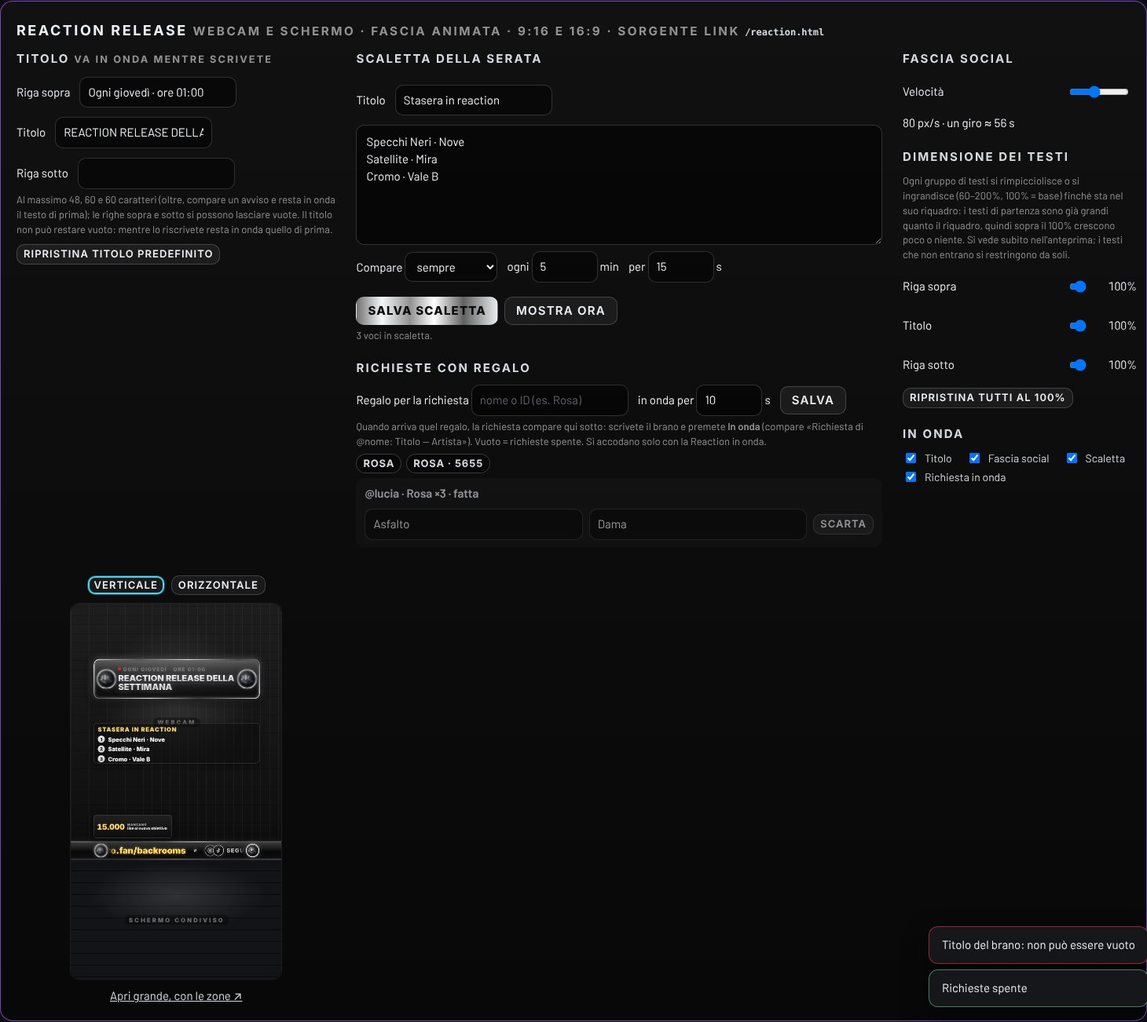
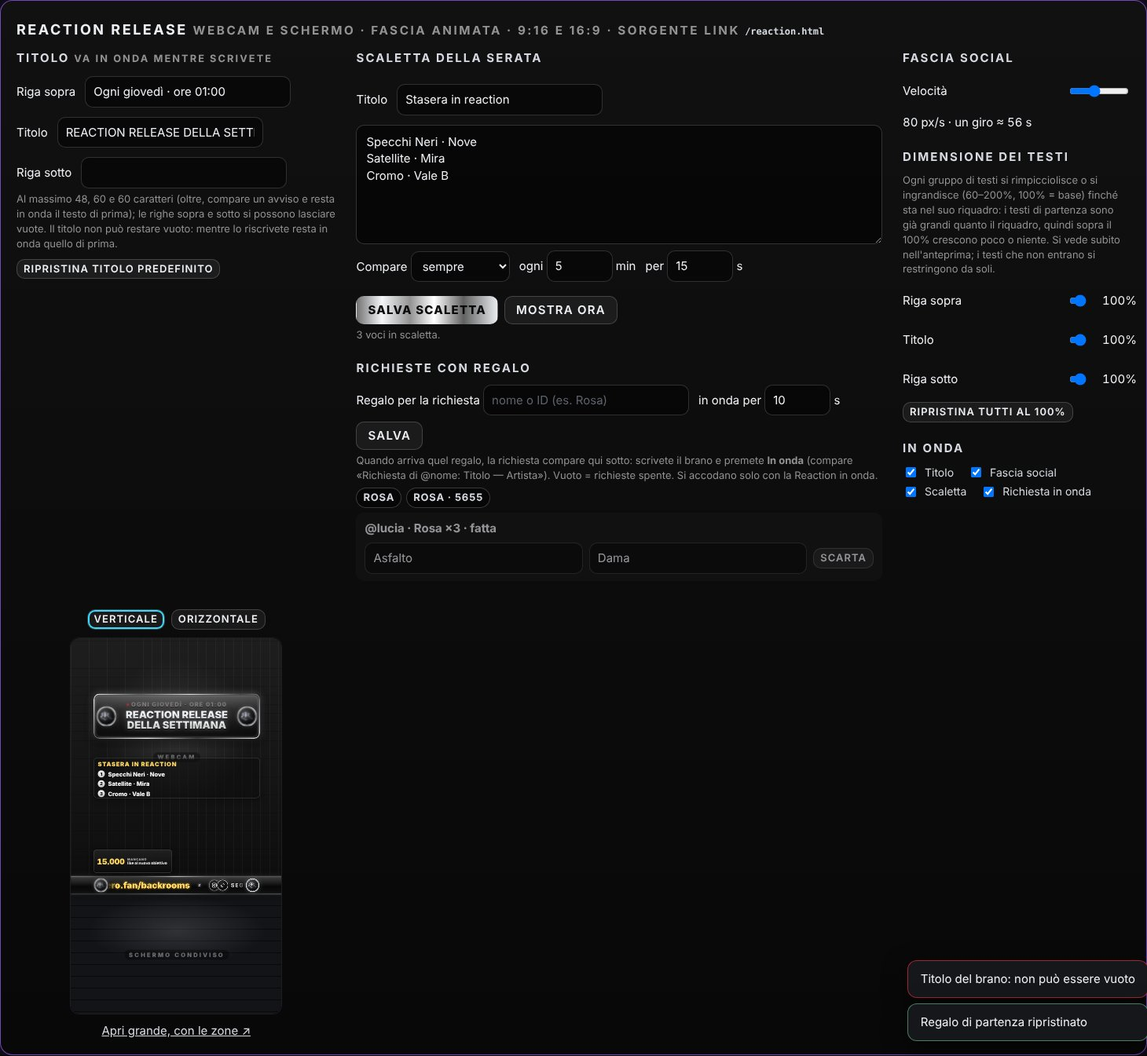
Documentazione, mockup e controllo di insieme dei nuovi layout [skip netlify]
Claude-Session: https://claude.ai/code/session_01KknJSv8vijv85bNpvfWr5a

diff --git a/overlay-live/GUIDA.html b/overlay-live/GUIDA.html
@@ -5,7 +5,6 @@
 <title>Guida overlay Backrooms</title>
 <link rel="preconnect" href="https://fonts.googleapis.com">
 <link rel="preconnect" href="https://fonts.gstatic.com" crossorigin>
-<link rel="stylesheet" href="https://fonts.googleapis.com/css2?family=Barlow+Condensed:wght@600;700;800&family=Barlow:ital,wght@0,400;0,500;0,600;1,400&family=Grenze+Gotisch:wght@800&display=swap">
 <style>
 /* Manuale da regia: indice fisso a sinistra su schermo largo, colonna di lettura a destra.
    Il giallo dei cerchietti numerati è lo stesso dello screenshot della regia, così testo e immagine si richiamano. */
@@ -20,9 +19,9 @@
   --ok: #46d98a;
   --allarme: #ff6b7d;
   --cromo: linear-gradient(180deg, #ffffff 0%, #c9ced8 38%, #6d7380 52%, #e9ecf2 70%, #9aa0ab 100%);
-  --f-gotico: "Grenze Gotisch", "Old English Text MT", Georgia, serif;
-  --f-titoli: "Barlow Condensed", "Arial Narrow", "Segoe UI", sans-serif;
-  --f-testo: "Barlow", "Segoe UI", system-ui, sans-serif;
+  --f-gotico: system-ui, -apple-system, "SF Pro Display", "Segoe UI", sans-serif;
+  --f-titoli: system-ui, -apple-system, "SF Pro Display", "Segoe UI", sans-serif;
+  --f-testo: system-ui, -apple-system, "SF Pro Text", "Segoe UI", sans-serif;
   --f-codice: "Cascadia Mono", Consolas, "SFMono-Regular", Menlo, monospace;
   color-scheme: dark;
 }
@@ -725,7 +724,7 @@ Webhook Nero.fan in ascolto su http://127.0.0.1:4748/webhook/nero</pre>
       <h3>Prima di ogni live</h3>
       <ol class="passi">
         <li><p>Nella regia, in alto, in <strong>In onda</strong> scegliete <strong>Drum Challenge Live</strong>: compare la sezione del Drum.</p></li>
-        <li><p><strong>Scaletta</strong>: una riga per tappa, «Like | Titolo del brano» (i Like si scrivono anche <em>15.000</em> o <em>15k</em>). Di partenza ci sono 37 tappe, da 1.000 a 500.000 Like, senza titoli: finché una tappa è chiusa la colonna scrive «Brano segreto», sbloccata senza titolo diventa «Brano a sorpresa». Premete <strong>Salva scaletta</strong>; se qualcosa non va, il messaggio dice il numero della riga e non cambia niente.</p></li>
+        <li><p><strong>Scaletta</strong>: una riga per tappa, «Like | Titolo del brano» (i Like si scrivono anche <em>15.000</em> o <em>15k</em>). Di partenza ci sono 37 tappe, da 1.000 a 500.000 Like, senza titoli: finché una tappa è chiusa il titolo resta nascosto, sbloccata senza titolo diventa «Brano a sorpresa». Premete <strong>Salva scaletta</strong>; se qualcosa non va, il messaggio dice il numero della riga e non cambia niente.</p></li>
         <li><p><strong>Like</strong>: collegate la chat (sezione <em>Serata</em> → <strong>Collega chat</strong>): i Like arrivano da soli e sotto il contatore grande compare «Collegato a TikTok». Se avviate la regia a live già iniziata, scrivete il numero giusto in <strong>Imposta i Like</strong> (anche prima che arrivi il primo Like da TikTok: il numero scritto resta, i Like nuovi si sommano); <strong>Riparti da ora</strong> li azzera e riporta la scaletta alla prima tappa.</p></li>
         <li><p><strong>Dona un…</strong>, <strong>Artista ospite</strong> (compare nella barra dei social) e <strong>Riempimento dei moduli</strong> (perline o sabbia) si cambiano a piacere. In <strong>Dimensione dei testi</strong> ogni gruppo di testi si rimpicciolisce (o si ingrandisce, dove il riquadro ha ancora spazio: i testi di partenza sono già grandi quanto il loro riquadro).</p></li>
         <li><p><strong>Equalizzatore</strong>: leggete il paragrafo qui sotto prima della prima diretta.</p></li>

diff --git a/overlay-live/public/regia.html b/overlay-live/public/regia.html
@@ -7,7 +7,6 @@
   <title>Regia live · Backrooms</title>
   <link rel="preconnect" href="https://fonts.googleapis.com">
   <link rel="preconnect" href="https://fonts.gstatic.com" crossorigin>
-  <link rel="stylesheet" href="https://fonts.googleapis.com/css2?family=Barlow+Condensed:wght@500;600;700;800&family=Barlow:wght@400;500;600&family=Grenze+Gotisch:wght@700;800&display=swap">
   <link rel="stylesheet" href="/css/base.css">
   <link rel="stylesheet" href="/css/regia.css">
 </head>

diff --git a/overlay-live/README.md b/overlay-live/README.md
@@ -8,7 +8,7 @@ C'è anche il layout **Live session in studio** (`/studio.html`): split screen d
 
 Per gli scontri tra due rapper c'è il layout **Battle** (`/battle.html`): barre della vita in stile Tekken che seguono il voto della chat, camera al centro divisa da un fulmine con il VS, modalità e timer con il gong, tre giudici (Luca, Freya, Daniele), tabellone a torneo o a punti e pop-up social (vedi [Battle](#battle)).
 
-Per le dirette con la camera a tutto schermo ci sono altri quattro layout, con la stessa grafica (vetro viola, cromo, monete BR, neon): **Drum Challenge Live** (`/drum.html`: i Like della live sbloccano una scaletta di brani, con equalizzatore dall'audio di FL Studio), **Studio Production** (`/produzione.html`: webcam e DAW con una targa per il titolo), **Back Rooms Podcast** (`/podcast.html`: targa, linea di divisione e pannello Tematiche, anche in 16:9) e **Reaction Release** (`/reaction.html`: webcam e schermo condiviso, anche in 16:9). Vedi [I quattro layout nuovi](#i-quattro-layout-nuovi).
+Per le dirette con la camera a tutto schermo ci sono altri quattro layout, con la stessa grafica (vetro grigio, cromo, monete BR, accenti oro, rosso e verde smeraldo): **Drum Challenge Live** (`/drum.html`: i Like della live sbloccano una scaletta di brani, con equalizzatore dall'audio di FL Studio), **Studio Production** (`/produzione.html`: webcam e DAW con una targa per il titolo), **Back Rooms Podcast** (`/podcast.html`: targa, linea di divisione e pannello Tematiche, anche in 16:9) e **Reaction Release** (`/reaction.html`: webcam e schermo condiviso, anche in 16:9). Vedi [I quattro layout nuovi](#i-quattro-layout-nuovi).
 
 ```
 Nero.fan ─webhook─▶ ┐                                        ┌──▶ /overlay.html       (gara con premio, sorgente Link)
@@ -152,9 +152,19 @@ Giudici e barra della chat stanno nella zona dei commenti di TikTok (1200–1700
 
 Per rifare i mockup e controllare che ogni pezzo stia dove dice la tabella (serve Playwright installato a parte, non fa parte di `npm test`): `node strumenti/mockup-battle.mjs --base http://127.0.0.1:4747 --fase battle` (fasi: `attesa`, `countdown`, `battle`, `voto`, `risultato`, `pari`, `torneo`, `punti`; opzioni `--guida`, `--secondi N`, `--conto N`, `--popup`, e `--fase risultato --vittoria` per la schermata del vincitore, con il controllo che stia nella zona libera), per provare la regia `--regia`, e `--controlli` per verificare che i nomi lunghi entrino nei riquadri e che «VIA!» resti visibile. **Usatelo su una porta di prova, non durante la diretta**: i dati di prova azzerano torneo e punti. I dati di prova li mette il comando `battleDemo`.
 
+## Aspetto, Goal e richieste
+
+- **Font e palette**: gli overlay usano il **font di sistema** (San Francisco su Mac e iPhone; su Windows il font di sistema, Segoe UI): nessun font scaricato da Internet. I colori sono **grigi** con tre accenti: **oro** (premi, tracce che pagano), **rosso** (urgenza, ultimi minuti) e **verde smeraldo** (conferme). Un controllo automatico (`test/aspetto.test.mjs`) impedisce font con nome proprio e colori fuori palette.
+- **Voto della chat e votazione**: i voti vanno da 4 a 10 (si cambia con il comando `votazione`, insieme ai pesi e alle diciture di Beat, Voce, Mix e Chat). Il blocco dei voti sta sopra i commenti. Nel Battle la modalità «Voto Chat» fa decidere il round al pubblico.
+- **Tabellone ad albero** (comando `albero`, widget `albero`): i confronti della gara come albero, in onda per i secondi scelti.
+- **Goal Like e Follower** (comando `goal`, widget `goal`): un obiettivo a tacche (i *Like* arrivano da TikTok, i *Follower* da un follow o si impostano a mano) mostrato in gara, senza premio, studio, Drum, Studio Production, Reaction, Podcast e Battle (non nel formato orizzontale della gara). Modo *fisso* o *a comparsa* (ogni N minuti per N secondi, o con `goalMostra`); la posizione si regola per layout.
+- **Richieste con regalo e *Regali visti***: in Reaction e Drum un regalo scelto in regia (nome o ID) aggiunge una richiesta di un donatore in coda (al massimo 30). Nella Reaction la regia scrive il brano e lo mette in onda; nel Drum la richiesta «salta la coda». La regia elenca i *Regali visti* nella live, così si copia il nome giusto. Le richieste arrivano solo al layout in onda e si svuotano con *Nuova serata*.
+- **Senza premio**: la scheda «Ora in ascolto» resta fissa, mostra «Traccia N di TOT» con le tracce in attesa su Nero (`codaNero`, oppure il totale vero di Nero) e l'Instagram dell'artista; chi paga lo skip fa comparire il banner oro. **Live session in studio**: la linguetta e la barra dicono «In studio ora» (la dicitura si cambia).
+- **Limiti noti**: il nome del campo Instagram nella traccia di Nero e il significato di `queueCount` non sono verificati con una traccia vera; regali e follower non sono stati provati con una live vera (solo `regaloEvento` e `followEvento`); il carico sul PC non è stato misurato.
+
 ## I quattro layout nuovi
 
-**Drum Challenge Live**, **Studio Production**, **Back Rooms Podcast** e **Reaction Release** hanno la stessa grafica (vetro viola, cromo, monete BR, neon ciano, magenta e oro; Barlow Condensed e Grenze Gotisch) e funzionano allo stesso modo: la camera (o le camere) sta **sotto**, in LIVE Studio o OBS, e sopra va **una sola** sorgente **Link** su sfondo trasparente. Nella regia, in alto, in *In onda* si sceglie il layout; ognuno ha la sua sezione, con un'anteprima che si aggiorna dal vivo e il link «Apri grande, con le zone».
+**Drum Challenge Live**, **Studio Production**, **Back Rooms Podcast** e **Reaction Release** hanno la stessa grafica (vetro grigio, cromo, monete BR; solo grigi con accenti oro, rosso e verde smeraldo; font di sistema, vedi [Aspetto, Goal e richieste](#aspetto-goal-e-richieste)) e funzionano allo stesso modo: la camera (o le camere) sta **sotto**, in LIVE Studio o OBS, e sopra va **una sola** sorgente **Link** su sfondo trasparente. Nella regia, in alto, in *In onda* si sceglie il layout; ognuno ha la sua sezione, con un'anteprima che si aggiorna dal vivo e il link «Apri grande, con le zone».
 
 | Layout | Indirizzo | Formato | Suoni |
 |---|---|---|---|
@@ -178,7 +188,7 @@ Il server li stampa all'avvio, insieme agli altri. Quello che hanno in comune:
 
 Per la sfida alla batteria: i **Like** della live sbloccano, uno dopo l'altro, i brani di una scaletta, e mentre si suona la cornice e l'equalizzatore seguono l'audio di FL Studio. La camera del batterista va **sotto**, a tutto schermo; sopra va una sorgente **Link** `http://127.0.0.1:4747/drum.html`, 1080×1920, stesa su tutta la tela (sfondo trasparente). Nella regia, in alto: **In onda → Drum Challenge Live**.
 
-- **Colonna dei traguardi** (a destra) e **contatore dei Like** sopra di lei. La colonna mostra quattro moduli: l'ultimo sbloccato, quello che si sta riempiendo e i due dopo. Ogni modulo ha i Like della tappa e il titolo del brano (finché la tappa è chiusa «Brano segreto»; sbloccata senza titolo «Brano a sorpresa»); quello che si sta riempiendo mostra quanti Like mancano e la percentuale, con una clessidra che si riempie di **perline** o di **sabbia** (si sceglie in regia, *Riempimento dei moduli*).
+- **Colonna dei traguardi** (a destra) e **contatore dei Like** sopra di lei. La colonna mostra quattro moduli: l'ultimo sbloccato, quello che si sta riempiendo e i due dopo. Ogni modulo ha i Like della tappa e il titolo del brano (finché la tappa è chiusa il titolo resta nascosto; sbloccata senza titolo «Brano a sorpresa»); quello che si sta riempiendo mostra quanti Like mancano e la percentuale, con una clessidra che si riempie di **perline** o di **sabbia** (si sceglie in regia, *Riempimento dei moduli*).
 - **Scaletta**: di partenza 37 tappe, da 1.000 a 500.000 Like (1k, 2k, 3k, 5k, 7k, 9k, 10k, 12k, 15k, 17k, 20k, 22k, 25k, 27k, 29k, 30k, 32k, 35k, 37k, 40k, 45k, 50k, 60k, 70k, 80k, 90k, 100k, 125k, 150k, 175k, 200k, 250k, 300k, 350k, 400k, 450k, 500k), senza titoli. In regia (*Scaletta*) si scrive una tappa per riga, «Like | Titolo del brano»: i Like si scrivono `15000`, `15.000` o `15k` e devono crescere; massimo 80 tappe, titoli fino a 60 caratteri. Un errore dice il numero della riga e non cambia niente. *Scaletta predefinita* rimette le 37 tappe tenendo i titoli di quelle con gli stessi Like. Cambiare la scaletta non sblocca nessun brano.
 - **Like**: arrivano da soli dagli eventi «like» della chat TikTok (serve la chat collegata: *Serata → Collega chat*; la regia mostra «Collegato a TikTok», «In attesa di TikTok» o «TikTok non collegato»). Il totale della live non scende mai. In regia si correggono a mano: *Imposta*, *+100*, *+1.000* e *Riparti da ora* (contatore a zero e scaletta dalla prima tappa: per una live già iniziata). Una correzione fatta prima che arrivi il primo evento «like» (regia appena avviata o chat appena ricollegata) vale per quel primo evento: il totale della live non si somma al numero impostato e *Riparti da ora* non sblocca le tappe che c'erano già.
 - **Sblocco**: quando i Like raggiungono una tappa parte una sequenza di circa 2,6 secondi: un colpo sul modulo (onda di luce, raffica di perline, lampo), il banner **«Brano sbloccato»** con il titolo in verde neon (per circa 3 secondi), la colonna che scorre di un posto e il suono `sblocco`. Se i Like saltano più tappe in una volta si annuncia solo la più alta; due sblocchi di fila non si accavallano (parte l'ultimo). Ricaricare la pagina non rifà la sequenza.
@@ -220,8 +230,9 @@ Si cambiano in cima a `public/css/drum.css`. Parametri: i comuni (vedi sopra) e 
 Per le live in cui si lavora a un beat o a un mix: la **webcam** in alto e lo **schermo della DAW** (FL Studio) in basso, la fascia social tra le due e, nella parte alta della webcam, una targa con il titolo della live. In LIVE Studio le due camere vanno **sotto**: webcam da y 0 a 1212, schermo della DAW da y 1304 a 1920. Sopra va una sorgente **Link** `http://127.0.0.1:4747/produzione.html`, 1080×1920, stesa su tutta la tela (sfondo trasparente). Nella regia, in alto: **In onda → Studio Production**. Solo verticale, nessun suono.
 
 - **Targa del titolo**: placca cromata in 3D con le monete BR ai lati e il punto REC, su tre righe: una riga sopra, il titolo grande in cromo luccicante e una riga sotto. Il colore d'accento e l'icona dipendono dal **preset**: *Cooking Beats* (oro, cappello da cuoco, «Backrooms Studio · Live» / «Un beat da zero, in diretta»), *Sessione Beat* (magenta, cuffie, «In studio con il producer») e *Mix & Master* (ciano, manopole, «Mix e master in diretta»). Scelto il preset si può cambiare ogni riga.
-- **Titolo in tempo reale**: le tre righe (sopra fino a 32 caratteri, titolo 28, sotto 48) vanno in onda **mentre si scrive**, 150 ms dopo l'ultimo tasto, con un breve effetto flip (non al primo caricamento). Il titolo non può restare vuoto: mentre lo riscrivete resta in onda quello di prima; un testo troppo lungo dà un avviso e il campo torna al testo in onda.
+- **Titolo in tempo reale**: le tre righe (sopra fino a 40 caratteri, titolo 36, sotto 60) vanno in onda **mentre si scrive**, 150 ms dopo l'ultimo tasto, con un breve effetto flip (non al primo caricamento). Il titolo non può restare vuoto: mentre lo riscrivete resta in onda quello di prima; un testo troppo lungo dà un avviso e il campo torna al testo in onda.
 - **Fascia social** (la barra che scorre) tra la webcam e lo schermo.
+- **Titoli salvati**: in regia si salva il titolo scritto con un nome (fino a 24 caratteri, al massimo 6, nomi diversi): *Usa* rimette in onda le sue tre righe (il colore della targa non cambia), *Togli* lo cancella.
 - In regia, *In onda*: titolo e fascia social.
 
 ### Posizioni Studio Production e Reaction Release, verticale (pixel della tela 1080×1920)
@@ -229,7 +240,7 @@ Per le live in cui si lavora a un beat o a un mix: la **webcam** in alto e lo **
 | Pezzo | x | y | larghezza × altezza |
 |---|---|---|---|
 | Webcam (A) | 0 | 0 | 1080 × 1212 (l'app copre fino a ~270) |
-| Titolo (targa) | 116 | 282 | 848 × 204 |
+| Titolo (targa) | 116 | 282 | 848 × 230 |
 | Fascia social | 0 | 1212 | 1080 × 92 |
 | Schermo (B: DAW o video) | 0 | 1304 | 1080 × 616 |
 
@@ -239,10 +250,10 @@ Si cambiano in cima a `public/css/doppio.css` (e il punto della fascia in `forma
 
 Per il podcast sul divano: la **camera** (host e ospiti) a tutto schermo, **sotto**; sopra va una sorgente **Link** `http://127.0.0.1:4747/podcast.html` (1080×1920) oppure `http://127.0.0.1:4747/podcast.html?formato=orizzontale` (1920×1080), stesa su tutta la tela (sfondo trasparente). Nella regia, in alto: **In onda → Back Rooms Podcast**. Nessun suono.
 
-- **Targa**: «Back Rooms Podcast» con sotto la riga dell'episodio (di partenza vuota), su una placca cromata con le monete BR (accento ciano). Il titolo (fino a 32 caratteri) e la riga dell'episodio (48) vanno in onda mentre si scrive, come in Studio Production.
+- **Targa**: «Back Rooms Podcast» con sotto la riga dell'episodio (di partenza vuota), su una placca cromata con le monete BR (accento ciano). Il titolo (fino a 40 caratteri) e la riga dell'episodio (60) vanno in onda mentre si scrive, come in Studio Production.
 - **Linea di divisione** (spenta all'inizio): un filo neon cromato che separa i due lati del divano («intervista doppia»). Quando si accende si disegna dal centro verso gli estremi in 0,7 secondi, quando si spegne si ritira.
 - **Pannello Tematiche** (spento all'inizio): un pannello di vetro con l'intestazione («Tematiche di oggi») e fino a 8 tematiche da 48 caratteri. La tematica **attiva** ha il bordo oro e la freccia, le precedenti sono attenuate con la spunta, le seguenti hanno un cerchietto; cambiando tematica il bordo scorre da una voce all'altra. Entra e esce con una dissolvenza che scorre. In orizzontale sta a sinistra oppure a destra (*Pannello a*: Sinistra o Destra); in verticale sta sempre al centro, davanti alla linea (che si intravede attenuata dietro il vetro).
-- **Fascia social** con gli **ospiti** (fino a 4: nome, contatto e icona) dopo la prima voce, come «Ospite · Nome · @contatto».
+- **Fascia social** con gli **ospiti** (fino a 4: nome, contatto e icona) dopo la prima voce, come «Ospite · Nome · @contatto» (la parola «Ospite» si cambia in regia, *Diciture*).
 - **Dalla regia**: quattro grandi pulsanti On/Off (*Linea di divisione*, *Pannello Tematiche*, *Targa*, *Fascia social*), la lista delle tematiche in onda (un clic la rende attiva; *Indietro* e *Avanti*), l'elenco da scrivere (una tematica per riga, con il titolo del pannello, e *Salva tematiche*), gli ospiti (si salvano uscendo dal campo; una riga senza nome non va in onda) e il titolo.
 - **Scorciatoie** (solo con il Podcast in onda): `F2` tematica avanti, `F3` indietro, `F4` mostra o nasconde il pannello Tematiche. Stream Deck: `POST /api/podcastTematica` con `{ "avanti": true }`, `{ "indietro": true }` o `{ "indice": 2 }`, e `POST /api/widget` con `{ "nome": "poTematiche", "visibile": true }`.
 - *Nuova serata* riporta la tematica attiva alla prima; elenco, ospiti e titolo restano. All'avvio linea e pannello sono spenti.
@@ -251,8 +262,8 @@ Per il podcast sul divano: la **camera** (host e ospiti) a tutto schermo, **sott
 
 | Pezzo | Verticale 1080×1920 | Orizzontale 1920×1080 |
 |---|---|---|
-| Targa | x 116, y 282, 848 × 128 | x 48, y 36, 512 × 128 |
-| Pannello Tematiche | x 116, y 424, 848 × 480 (8 righe da 48) | x 48 (1360 con «Destra»), y 176, 512 × 570 (8 righe da 58) |
+| Targa | x 116, y 282, 848 × 140 | x 48, y 36, 512 × 136 |
+| Pannello Tematiche | x 116, y 432, 848 × 472 (8 righe da 48) | x 48 (1360 con «Destra»), y 176, 512 × 570 (8 righe da 58) |
 | Linea di divisione | x 538, y 240, 4 × 860 | x 958, y 0, 4 × 968 (arriva alla fascia) |
 | Fascia social | x 0, y 1108, 1080 × 92 | x 0, y 968, 1920 × 92 |
 
@@ -316,7 +327,9 @@ La chat accetta `8`, `7.5`, `7,5`, `9/10`, `!voto 8`. Un voto per utente (vale l
 | Campo | Cosa fa |
 |---|---|
 | `giudici` | Giudice di ogni categoria: `{ "beat": "...", "voce": "...", "mix": "..." }` (modificabile anche dalla regia) |
-| `pesi` | Peso di ogni voce nel totale (default uguali: chat al 25%) |
+| `pesi` | Peso di ogni voce nel totale: `{ "beat": 3, "voce": 3, "mix": 3, "chat": 1 }` (0–100, almeno uno sopra zero; di partenza la chat pesa il 10%) |
+| `votoMin`, `votoMax` | Intervallo dei voti (di partenza 4 e 10; il minimo sotto il massimo) |
+| `etichette` | Diciture delle voci nel tabellone: `{ "beat": "Beat", "voce": "Voce", "mix": "Mix", "chat": "Chat" }` (si cambiano anche dalla regia, comando `votazione`) |
 | `topN` | Posizioni in classifica |
 | `premio` | Premio iniziale (si cambia dalla regia) |
 | `invito` | Frasi iniziali sotto il premio, separate da `\|` (si cambiano dalla regia) |
@@ -361,19 +374,24 @@ Il tunnel espone solo la porta del webhook, non la regia.
 
 | Comando | Corpo JSON |
 |---|---|
-| `traccia` | `{ "titolo", "artista" }`: nuova traccia in ascolto |
-| `correggiTraccia` | `{ "titolo"?, "artista"? }`: corregge senza azzerare i voti |
+| `traccia` | `{ "titolo", "artista", "instagram"? }`: nuova traccia in ascolto |
+| `correggiTraccia` | `{ "titolo"?, "artista"?, "instagram"? }`: corregge senza azzerare i voti |
 | `inCoda`, `daCoda`, `togliCoda` | `{ "titolo", "artista" }` / `{ "id" }` |
+| `votazione` | `{ "pesi"?: { "beat", "voce", "mix", "chat" }, "min"?: 4, "max"?: 10, "etichette"?: { "beat": "Strumentale" } }`: pesi (0–100), intervallo dei voti (0–10, il minimo sotto il massimo) e diciture delle voci; vale da subito |
 | `voto` | `{ "categoria": "beat"\|"voce"\|"mix", "valore": 8.5 }` |
 | `giudici` | `{ "beat"?, "voce"?, "mix"? }` |
 | `apriChat`, `chiudiChat`, `azzeraChat` | `{ "secondi": 60 }` / `{}` |
 | `messaggioChat` | `{ "piattaforma", "utente", "testo" }`: per inoltrare commenti da altri tool |
+| `simulaChat` | `{ "quanti"?: 10 }`: voti di prova della chat (con il voto aperto) |
 | `tiktok` | `{ "utente": "@account" }` (vuoto per scollegare) |
 | `conferma`, `prossima` | `{}` |
+| `neroAutomatico` | `{ "attivo": true }`: la traccia automatica da Nero |
+| `codaNero` | `{ "inAttesa": 12 }` (tracce ancora in attesa su Nero; `null` per tornare alla lista) |
 | `countdown` | `{ "azione": "avvia"\|"pausa"\|"riprendi"\|"aggiungi"\|"azzera", "minuti"? }` |
 | `proclama` | `{}` chiude la gara (spareggio se c'è pari merito) · `{ "id" }` sceglie il vincitore |
 | `nascondiVincitore` | `{}`: chiude la schermata finale |
-| `widget` | `{ "nome": "premio"\|"tabellone"\|"classifica"\|"timer"\|"banner"\|"barra"\|"scheda"\|"targa"\|"barraStudio"\|"comparse"\|"barreVita"\|"modalita"\|"timerBattle"\|"giudiciBattle"\|"popupBattle"\|"vittoriaBattle"\|"bracket"\|"drumCornice"\|"drumTraguardi"\|"drumBrano"\|"drumPriorita"\|"drumBarra"\|"prTitolo"\|"prBarra"\|"reTitolo"\|"reBarra"\|"poTitolo"\|"poLinea"\|"poTematiche"\|"poBarra", "visibile": true }` (la linea e il pannello del podcast e il tabellone del battle partono spenti) |
+| `widget` | `{ "nome": "premio"\|"tabellone"\|"classifica"\|"timer"\|"banner"\|"barra"\|"scheda"\|"targa"\|"barraStudio"\|"comparse"\|"barreVita"\|"modalita"\|"timerBattle"\|"giudiciBattle"\|"popupBattle"\|"vittoriaBattle"\|"bracket"\|"albero"\|"goal"\|"drumCornice"\|"drumTraguardi"\|"drumBrano"\|"drumPriorita"\|"drumBarra"\|"drumStriscia"\|"prTitolo"\|"prBarra"\|"reTitolo"\|"reBarra"\|"reScaletta"\|"reRichiesta"\|"poTitolo"\|"poLinea"\|"poTematiche"\|"poBarra", "visibile": true }` (la linea e il pannello del podcast, il tabellone del battle e l'albero della gara partono spenti) |
+| `albero` | `{ "durataSecondi"?: 20, "mostra"?: true }`: il tabellone ad albero dei confronti (con `mostra: false` si cambia solo la durata e si nasconde) |
 | `nascondiVoti` | `{ "attivo": true }`: l'overlay mostra "?" fino alla conferma |
 | `premio` | `{ "testo": "Mix + Master" }` |
 | `invito` | `{ "testo": "La traccia più votata vince \| Manda la tua traccia su nero.fan/backrooms" }` |
@@ -407,14 +425,21 @@ Il tunnel espone solo la porta del webhook, non la regia.
 | `drumScaletta` | `{ "testo": "1000 \| Primo brano\n15k \| Secondo" }` (una tappa per riga, «Like \| Titolo», massimo 80) oppure `{ "predefinita": true }` |
 | `drumBrano` | `{ "titolo"?, "artista"?, "daIndice"?, "svuota"? }`: brano in esecuzione (`daIndice` lo prende da una tappa già sbloccata) |
 | `drumOspite` | `{ "etichetta"?, "handle"?, "icona"? }`: artista ospite sulla fascia (icone come per le voci social) |
-| `drumPriorita` | `{ "prefisso"?, "slot"?, "sopra"?, "icona"?: "rosa"\|"corona"\|"cuore"\|"regalo"\|"stella"\|"diamante"\|"logo", "richiamo"?: true }`: «Dona un…»; con `richiamo` il widget pulsa (solo se è acceso) |
+| `drumPriorita` | `{ "prefisso"?, "slot"?, "dopo"?, "regalo"?, "icona"?: "rosa"\|"corona"\|"cuore"\|"regalo"\|"stella"\|"diamante"\|"logo", "richiamo"?: true }`: «Dona un…»; con `richiamo` il widget pulsa (solo se è acceso) |
 | `drumEq` | `{ "sensibilita"?: 100, "stile"?: "barre"\|"onda", "senzaSegnale"?: true }`: equalizzatore (sensibilità 50–300) |
 | `drumRiempimento` | `{ "stile": "perline"\|"sabbia" }` |
 | `drumDemo` | `{ "fase": "vuoto"\|"meta"\|"sblocco"\|"finale" }`: dati di prova (Like, titoli delle prime 12 tappe, ospite, brano) |
+| `drumStriscia` | `{ "velocita": 80 }`: la striscia a scorrimento in alto (40–160 px/s) |
 | `likeEvento` | `{ "totale"?: 11400, "conteggio"?: 25 }`: simula un evento «like» di TikTok (per provare il Drum senza una live) |
-| `produzione` | `{ "preset"?: "cooking"\|"sessione"\|"mix", "titolo"?: { "sopra"?, "testo"?, "sotto"? }, "velocita"? }` (limiti 32, 28 e 48 caratteri) |
-| `reaction` | `{ "titolo"?: { "sopra"?, "testo"?, "sotto"? }, "velocita"? }` (limiti 40, 60 e 60 caratteri) |
-| `podcast` | `{ "titolo"?: { "testo"?, "sotto"? }, "ospiti"?: [{ "nome", "handle", "icona" }], "tematiche"?: { "titolo"?, "elenco"?: ["…"], "attiva"?, "lato"?: "sx"\|"dx" }, "velocita"? }` (titolo 32 e riga 48 caratteri; massimo 4 ospiti; 8 tematiche da 48) |
+| `goal` | `{ "like"?: { "obiettivo", "passo" }, "follower"?: { "obiettivo", "passo", "imposta", "aggiungi" }, "modo"?: "fisso"\|"comparsa", "ogniMinuti"?, "durataSecondi"?, "posizione"?: { "layout", "x", "y", "scala", "ripristina" } }`: l'obiettivo Like e Follower |
+| `goalMostra` | `{}`: fa comparire il Goal adesso (modo «a comparsa») |
+| `regaloEvento` | `{ "nome"?, "id"?, "utente"?, "quantita"? }`: simula un regalo di TikTok (per provare Goal e richieste) |
+| `followEvento` | `{ "utente", "totale"? }`: simula un follow di TikTok |
+| `scalettaMostra` | `{}`: fa comparire la scaletta della Reaction adesso |
+| `richiesta` | `{ "formato": "reaction"\|"drum", "azione": "inOnda"\|"fatta"\|"scarta", "id", "brano"? }`: una richiesta di un donatore (nella Reaction va in onda col brano scritto dalla regia) |
+| `produzione` | `{ "preset"?: "cooking"\|"sessione"\|"mix", "titolo"?: { "sopra"?, "testo"?, "sotto"? }, "velocita"?, "salva"?: { "nome" }, "usa"?: "id", "togli"?: "id" }` (limiti 40, 36 e 60 caratteri; titoli salvati: al massimo 6) |
+| `reaction` | `{ "titolo"?: { "sopra"?, "testo"?, "sotto"? }, "velocita"?, "scaletta"?: { "titolo", "voci", "modo", "ogniMinuti", "durataSecondi" }, "regalo"?, "durataRichiesta"? }` (limiti 48, 60 e 60 caratteri; scaletta fino a 8 voci) |
+| `podcast` | `{ "titolo"?: { "testo"?, "sotto"? }, "ospiti"?: [{ "nome", "handle", "icona" }], "etichette"?: { "ospite": "Ospite" }, "tematiche"?: { "titolo"?, "elenco"?: ["…"], "attiva"?, "lato"?: "sx"\|"dx" }, "velocita"? }` (titolo 40 e riga 60 caratteri; dicitura 40; massimo 4 ospiti; 8 tematiche da 48) |
 | `podcastTematica` | `{ "avanti": true }` · `{ "indietro": true }` · `{ "indice": 2 }`: sposta la tematica attiva (senza giri) |
 | `formatoTesti` | `{ "formato": "drum"\|"produzione"\|"reaction"\|"podcast", "valori": { "contatore": 140 } }` percento 60–200 per gruppo (Drum `contatore`, `traguardi`, `brano`, `priorita`, `sblocco`; produzione e reaction `sopra`, `titolo`, `sotto`; podcast `targa`, `tematiche`) · `{ "formato", "azzera": true }` torna al 100% |
 | `formatoVelocita` | `{ "formato": "drum"\|"produzione"\|"reaction"\|"podcast", "velocita": 80 }`: velocità della fascia social (40–160 px/s) |
